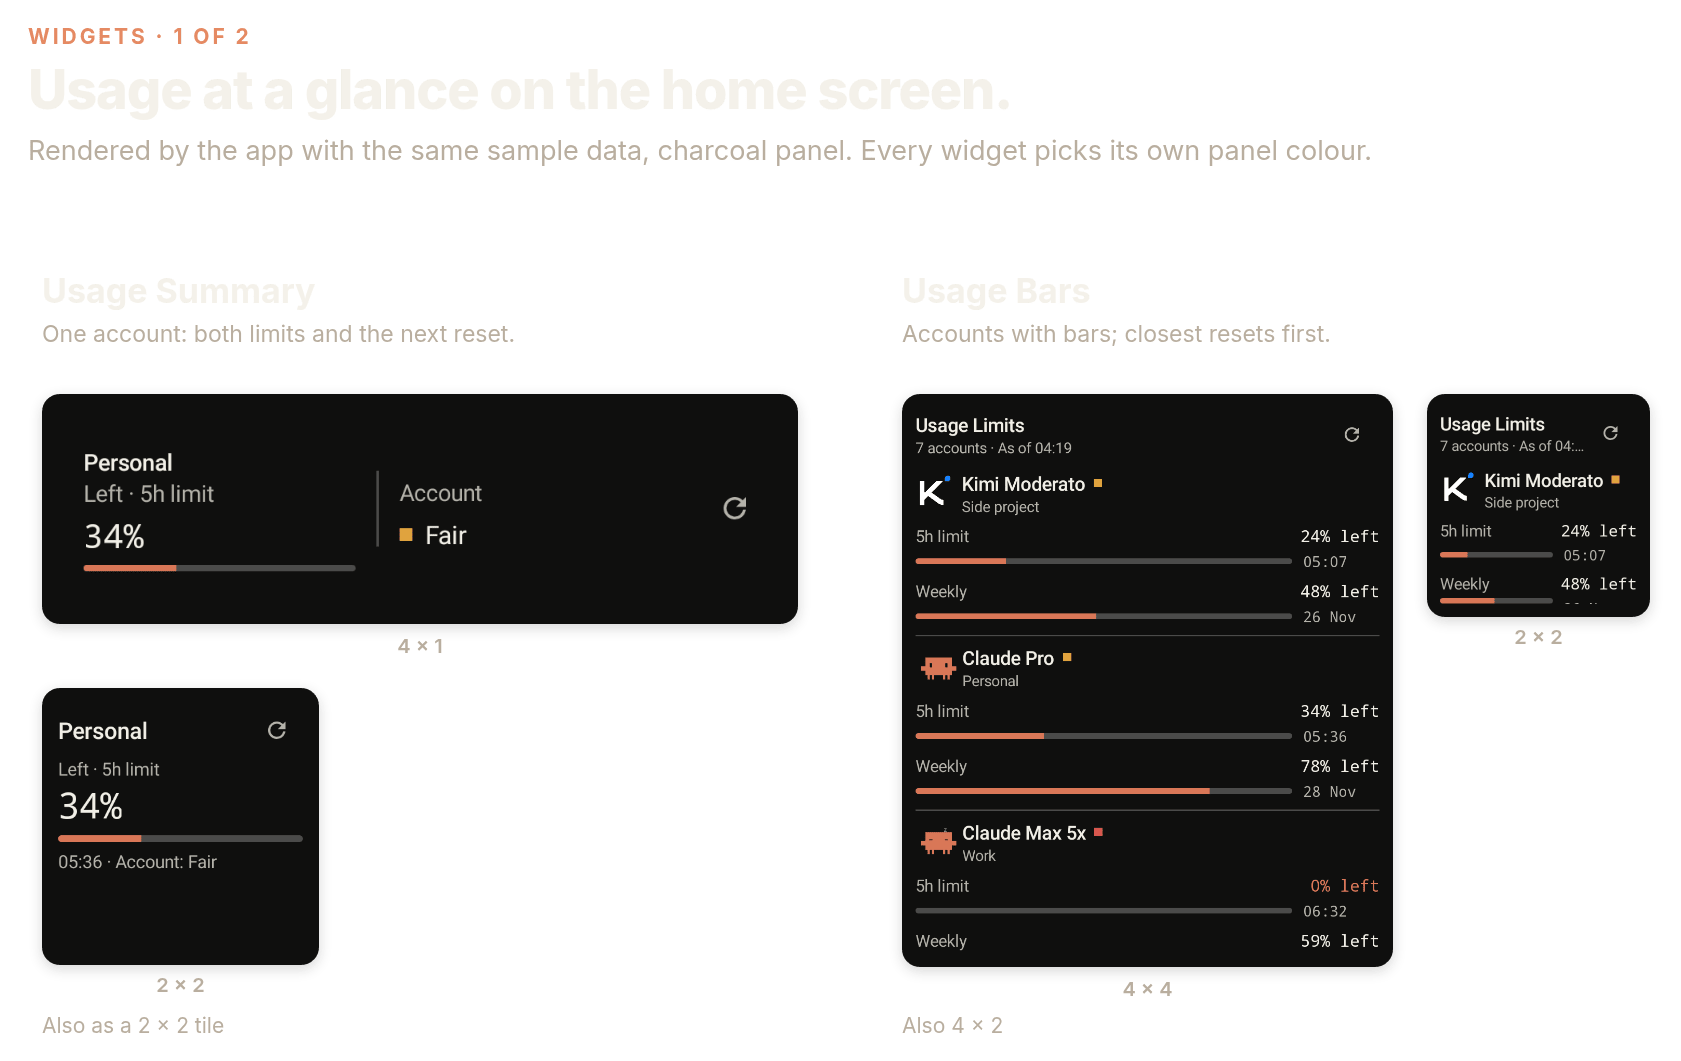
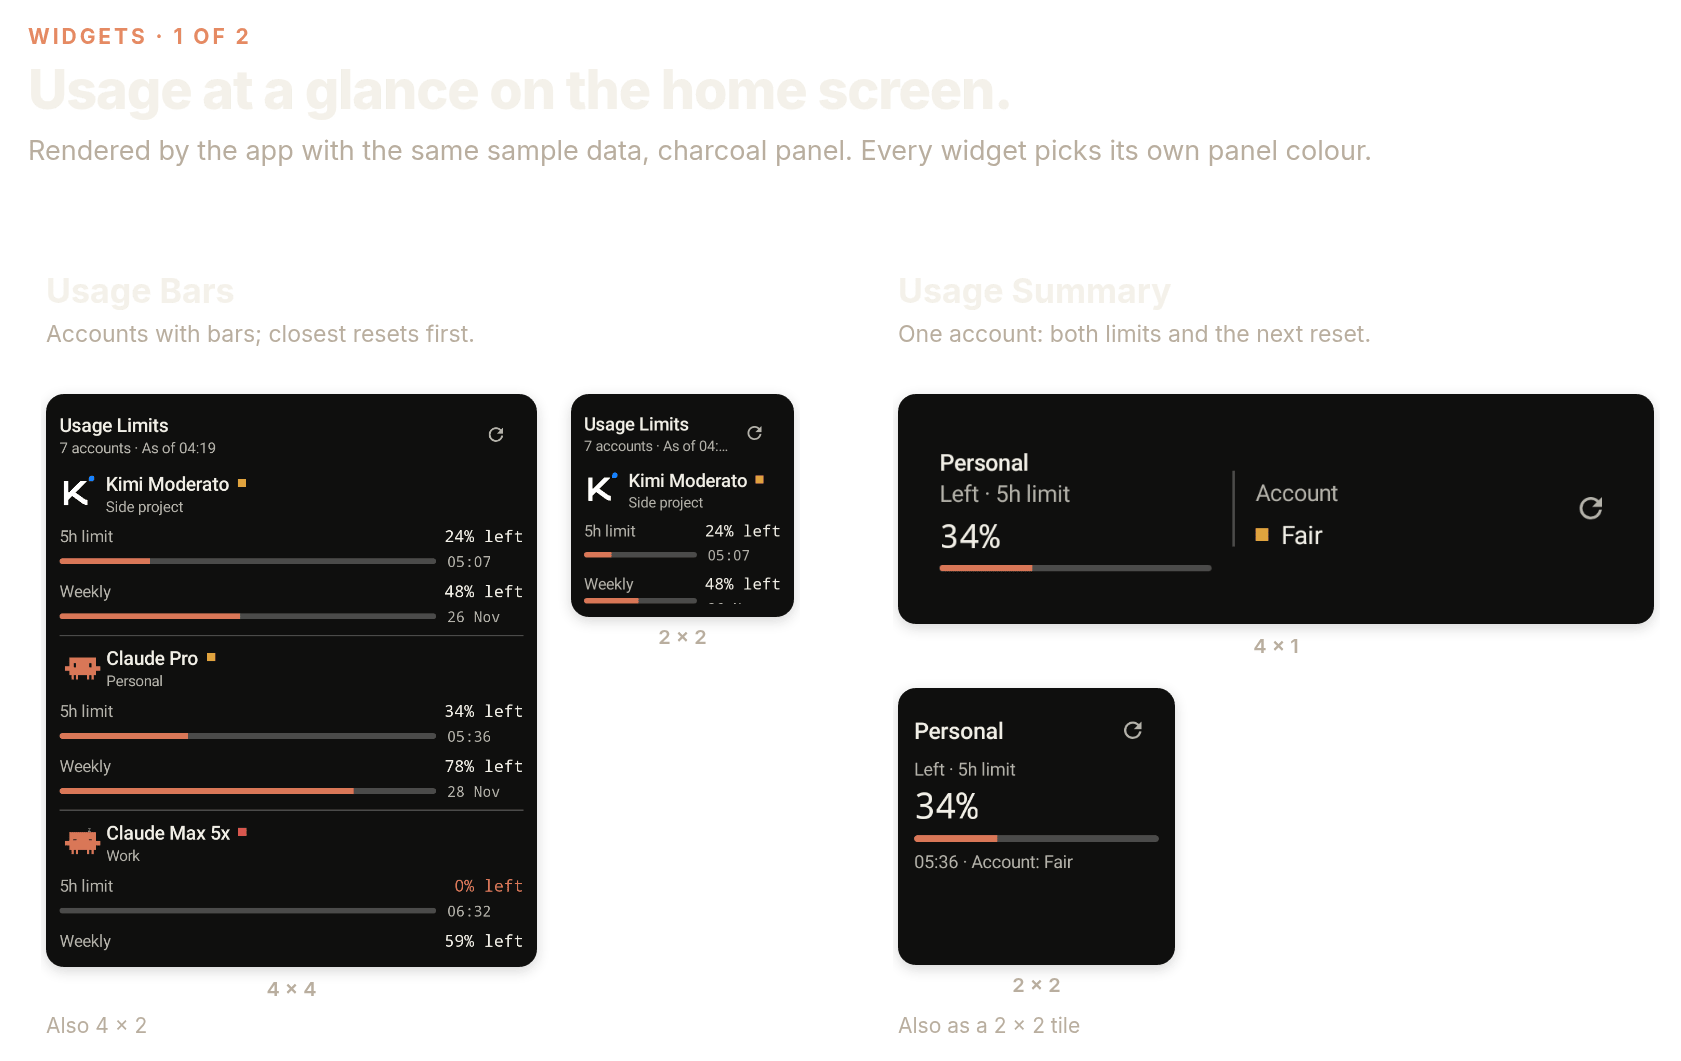
Show Usage Bars on the left of the widgets figure
- The README figure draws the two widget families side by side; Usage Bars now sits on the left and Usage Summary on the right.
- Same palette, same transparency, same 1681x1061 canvas: each column moved as one block, so nothing was resampled.
- The alt text follows the new order.

diff --git a/README.md b/README.md
@@ -48,7 +48,7 @@ Five home-screen styles, each able to show all accounts, one service, one accoun
 
 <picture>
   <source media="(prefers-color-scheme: dark)" srcset="docs/images/readme/08-widgets-usage-dark.png">
-  <img src="docs/images/readme/08-widgets-usage-light.png" width="880" alt="Usage Summary widget (4×1 and 2×2) for Claude Pro at 34% left, and the Usage Bars widget (4×4 and 2×2) listing accounts by closest reset.">
+  <img src="docs/images/readme/08-widgets-usage-light.png" width="880" alt="Usage Bars widget (4×4 and 2×2) listing accounts by closest reset, and the Usage Summary widget (4×1 and 2×2) for Claude Pro at 34% left.">
 </picture>
 
 ## Services
